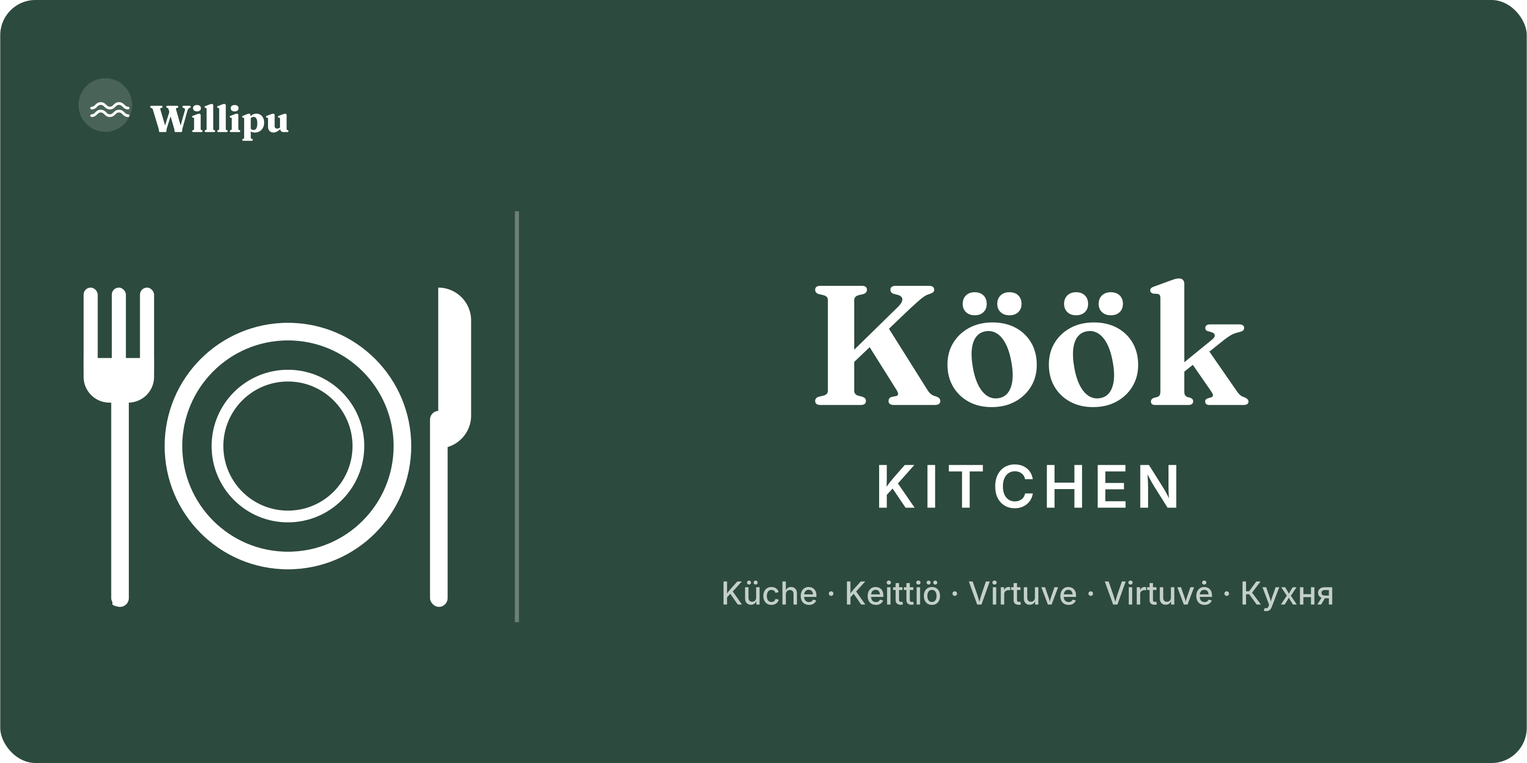
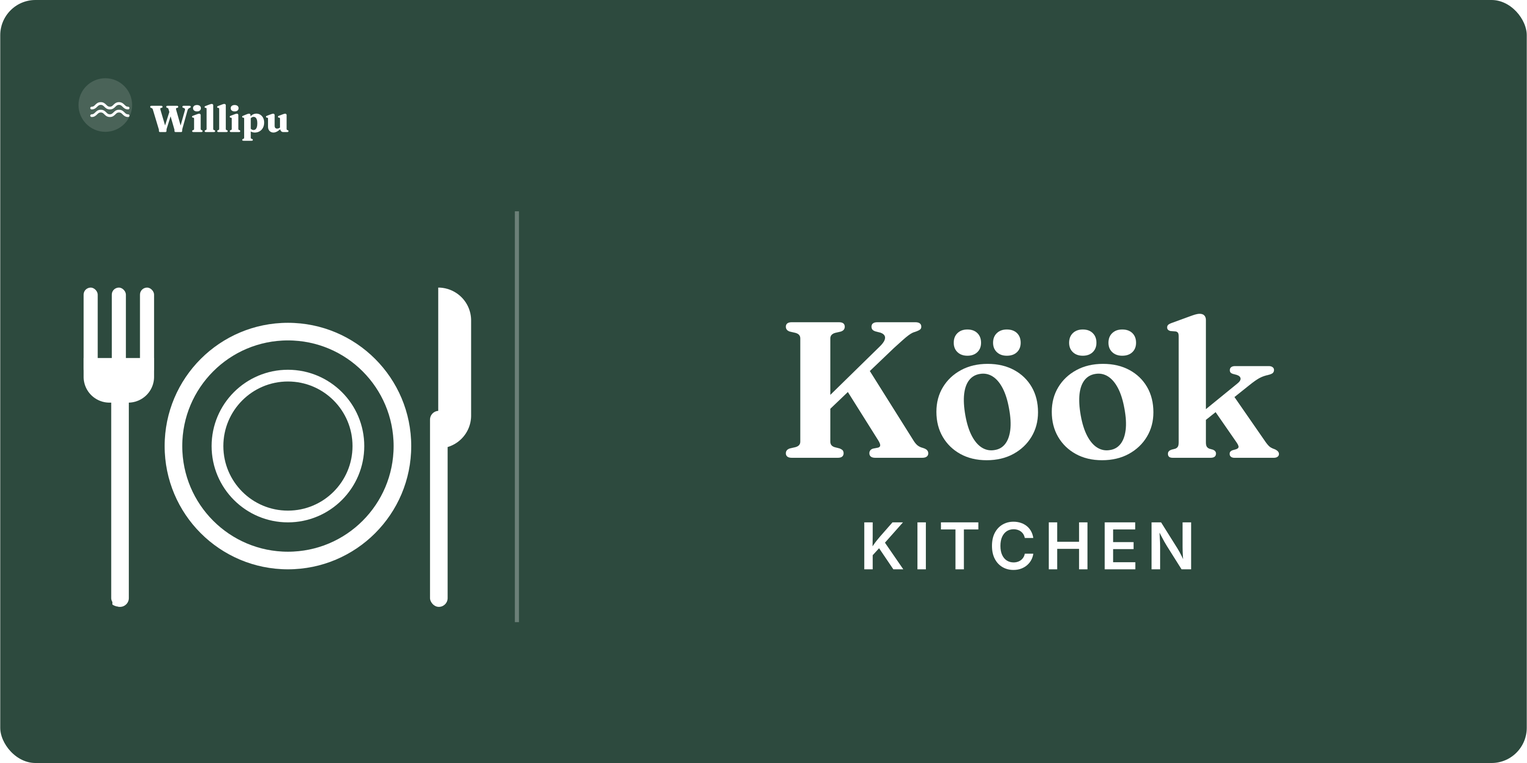
Köögi silt: ainult Köök + KITCHEN, suurem kiri
https://claude.ai/code/session_01DAokWKEoiBPxSJTSGSSjnQ

Changed region(s): [[0.464, 0.3674, 0.8971, 0.7961]]

diff --git a/public/turundus/index.html b/public/turundus/index.html
@@ -70,7 +70,7 @@
   <main>
     <h1>Turundusmaterjalid</h1>
     <p class="intro">Logod, bännerid, reklaamid ja QR-kleebised allalaadimiseks. Leht pole avalikult lingitud ega otsingumootoritele nähtav — jaga ainult otselinki.</p>
-    <section><h2>Logod <small>Logo files</small></h2><a class="file" href="willipu_logo.svg" download="willipu_logo.svg"><span class="thumb"><span class="ext">SVG</span></span><span class="meta"><strong>Logo, värviline — vektor (SVG)</strong><small>willipu_logo.svg · 2 KB</small></span><span class="dl">⬇</span></a><a class="file" href="willipu_logo_white.svg" download="willipu_logo_white.svg"><span class="thumb"><span class="ext">SVG</span></span><span class="meta"><strong>Logo, valge — vektor (SVG)</strong><small>willipu_logo_white.svg · 2 KB</small></span><span class="dl">⬇</span></a><a class="file" href="willipu_logo.pdf" download="willipu_logo.pdf"><span class="thumb"><span class="ext">PDF</span></span><span class="meta"><strong>Logo — vektor (PDF)</strong><small>willipu_logo.pdf · 2 KB</small></span><span class="dl">⬇</span></a><a class="file" href="willipu_logo.png" download="willipu_logo.png"><span class="thumb"><img src="willipu_logo.png" loading="lazy" alt=""></span><span class="meta"><strong>Logo, värviline — läbipaistev PNG</strong><small>willipu_logo.png · 28 KB</small></span><span class="dl">⬇</span></a><a class="file" href="willipu_logo_white.png" download="willipu_logo_white.png"><span class="thumb"><img src="willipu_logo_white.png" loading="lazy" alt=""></span><span class="meta"><strong>Logo, valge — läbipaistev PNG</strong><small>willipu_logo_white.png · 24 KB</small></span><span class="dl">⬇</span></a></section><section><h2>Bännerid <small>Print banners · 2200×1000 mm</small></h2><a class="file" href="willipu_banner_2200x1000.pdf" download="willipu_banner_2200x1000.pdf"><span class="thumb"><span class="ext">PDF</span></span><span class="meta"><strong>Suur bänner 1 — trükifail (PDF)</strong><small>willipu_banner_2200x1000.pdf · 391 KB</small></span><span class="dl">⬇</span></a><a class="file" href="willipu_banner_2.pdf" download="willipu_banner_2.pdf"><span class="thumb"><span class="ext">PDF</span></span><span class="meta"><strong>Suur bänner 2 — trükifail (PDF)</strong><small>willipu_banner_2.pdf · 412 KB</small></span><span class="dl">⬇</span></a></section><section><h2>Facebook <small>Social media images</small></h2><a class="file" href="willipu_facebook_cover.jpg" download="willipu_facebook_cover.jpg"><span class="thumb"><img src="willipu_facebook_cover.jpg" loading="lazy" alt=""></span><span class="meta"><strong>Kaanefoto · 1640×624</strong><small>willipu_facebook_cover.jpg · 277 KB</small></span><span class="dl">⬇</span></a><a class="file" href="willipu_facebook_profile.jpg" download="willipu_facebook_profile.jpg"><span class="thumb"><img src="willipu_facebook_profile.jpg" loading="lazy" alt=""></span><span class="meta"><strong>Profiilipilt · 800×800</strong><small>willipu_facebook_profile.jpg · 63 KB</small></span><span class="dl">⬇</span></a><a class="file" href="willipu_fb_ad_1080.jpg" download="willipu_fb_ad_1080.jpg"><span class="thumb"><img src="willipu_fb_ad_1080.jpg" loading="lazy" alt=""></span><span class="meta"><strong>Reklaam · 1080×1080</strong><small>willipu_fb_ad_1080.jpg · 299 KB</small></span><span class="dl">⬇</span></a><a class="file" href="willipu_fb_ad_karavan.jpg" download="willipu_fb_ad_karavan.jpg"><span class="thumb"><img src="willipu_fb_ad_karavan.jpg" loading="lazy" alt=""></span><span class="meta"><strong>Karavani reklaam · 1080×1350</strong><small>willipu_fb_ad_karavan.jpg · 300 KB</small></span><span class="dl">⬇</span></a><a class="file" href="willipu_fb_ad_kar1.jpg" download="willipu_fb_ad_kar1.jpg"><span class="thumb"><img src="willipu_fb_ad_kar1.jpg" loading="lazy" alt=""></span><span class="meta"><strong>Karavani reklaam, taust 1 · 1080×1350</strong><small>willipu_fb_ad_kar1.jpg · 301 KB</small></span><span class="dl">⬇</span></a><a class="file" href="willipu_fb_ad_kar2.jpg" download="willipu_fb_ad_kar2.jpg"><span class="thumb"><img src="willipu_fb_ad_kar2.jpg" loading="lazy" alt=""></span><span class="meta"><strong>Karavani reklaam, taust 2 · 1080×1350</strong><small>willipu_fb_ad_kar2.jpg · 282 KB</small></span><span class="dl">⬇</span></a><a class="file" href="willipu_fb_ad_kar3.jpg" download="willipu_fb_ad_kar3.jpg"><span class="thumb"><img src="willipu_fb_ad_kar3.jpg" loading="lazy" alt=""></span><span class="meta"><strong>Karavani reklaam, taust 3 · 1080×1350</strong><small>willipu_fb_ad_kar3.jpg · 442 KB</small></span><span class="dl">⬇</span></a></section><section><h2>QR-kleebised · Pesumasin <small>willipu.ee/wash → juhend/pesumasin/</small></h2><a class="file" href="willipu_kleebis_pesumasin.pdf" download="willipu_kleebis_pesumasin.pdf"><span class="thumb"><span class="ext">PDF</span></span><span class="meta"><strong>Kleebis 120×120 mm — trükifail (vektor-PDF)</strong><small>willipu_kleebis_pesumasin.pdf · 60 KB</small></span><span class="dl">⬇</span></a><a class="file" href="willipu_kleebis_pesumasin.svg" download="willipu_kleebis_pesumasin.svg"><span class="thumb"><span class="ext">SVG</span></span><span class="meta"><strong>Kleebis — vektor (SVG)</strong><small>willipu_kleebis_pesumasin.svg · 79 KB</small></span><span class="dl">⬇</span></a><a class="file" href="willipu_kleebis_pesumasin.png" download="willipu_kleebis_pesumasin.png"><span class="thumb"><img src="willipu_kleebis_pesumasin.png" loading="lazy" alt=""></span><span class="meta"><strong>Kleebis — eelvaade (PNG, 300 dpi)</strong><small>willipu_kleebis_pesumasin.png · 68 KB</small></span><span class="dl">⬇</span></a><a class="file" href="willipu_qr_pesumasin.svg" download="willipu_qr_pesumasin.svg"><span class="thumb"><span class="ext">SVG</span></span><span class="meta"><strong>Ainult QR-kood — vektor (SVG)</strong><small>willipu_qr_pesumasin.svg · 14 KB</small></span><span class="dl">⬇</span></a><a class="file" href="willipu_qr_pesumasin.png" download="willipu_qr_pesumasin.png"><span class="thumb"><img src="willipu_qr_pesumasin.png" loading="lazy" alt=""></span><span class="meta"><strong>Ainult QR-kood (PNG)</strong><small>willipu_qr_pesumasin.png · 4 KB</small></span><span class="dl">⬇</span></a></section><section><h2>QR-kleebised · Pesukuivati <small>willipu.ee/dry → juhend/pesukuivati/</small></h2><a class="file" href="willipu_kleebis_pesukuivati.pdf" download="willipu_kleebis_pesukuivati.pdf"><span class="thumb"><span class="ext">PDF</span></span><span class="meta"><strong>Kleebis 120×120 mm — trükifail (vektor-PDF)</strong><small>willipu_kleebis_pesukuivati.pdf · 57 KB</small></span><span class="dl">⬇</span></a><a class="file" href="willipu_kleebis_pesukuivati.svg" download="willipu_kleebis_pesukuivati.svg"><span class="thumb"><span class="ext">SVG</span></span><span class="meta"><strong>Kleebis — vektor (SVG)</strong><small>willipu_kleebis_pesukuivati.svg · 76 KB</small></span><span class="dl">⬇</span></a><a class="file" href="willipu_kleebis_pesukuivati.png" download="willipu_kleebis_pesukuivati.png"><span class="thumb"><img src="willipu_kleebis_pesukuivati.png" loading="lazy" alt=""></span><span class="meta"><strong>Kleebis — eelvaade (PNG, 300 dpi)</strong><small>willipu_kleebis_pesukuivati.png · 68 KB</small></span><span class="dl">⬇</span></a><a class="file" href="willipu_qr_pesukuivati.svg" download="willipu_qr_pesukuivati.svg"><span class="thumb"><span class="ext">SVG</span></span><span class="meta"><strong>Ainult QR-kood — vektor (SVG)</strong><small>willipu_qr_pesukuivati.svg · 14 KB</small></span><span class="dl">⬇</span></a><a class="file" href="willipu_qr_pesukuivati.png" download="willipu_qr_pesukuivati.png"><span class="thumb"><img src="willipu_qr_pesukuivati.png" loading="lazy" alt=""></span><span class="meta"><strong>Ainult QR-kood (PNG)</strong><small>willipu_qr_pesukuivati.png · 4 KB</small></span><span class="dl">⬇</span></a></section><section><h2>QR-kleebised · Saun <small>willipu.ee/sauna → juhend/saun/</small></h2><a class="file" href="willipu_kleebis_saun.pdf" download="willipu_kleebis_saun.pdf"><span class="thumb"><span class="ext">PDF</span></span><span class="meta"><strong>Kleebis 120×120 mm — trükifail (vektor-PDF)</strong><small>willipu_kleebis_saun.pdf · 55 KB</small></span><span class="dl">⬇</span></a><a class="file" href="willipu_kleebis_saun.svg" download="willipu_kleebis_saun.svg"><span class="thumb"><span class="ext">SVG</span></span><span class="meta"><strong>Kleebis — vektor (SVG)</strong><small>willipu_kleebis_saun.svg · 76 KB</small></span><span class="dl">⬇</span></a><a class="file" href="willipu_kleebis_saun.png" download="willipu_kleebis_saun.png"><span class="thumb"><img src="willipu_kleebis_saun.png" loading="lazy" alt=""></span><span class="meta"><strong>Kleebis — eelvaade (PNG, 300 dpi)</strong><small>willipu_kleebis_saun.png · 64 KB</small></span><span class="dl">⬇</span></a><a class="file" href="willipu_qr_saun.svg" download="willipu_qr_saun.svg"><span class="thumb"><span class="ext">SVG</span></span><span class="meta"><strong>Ainult QR-kood — vektor (SVG)</strong><small>willipu_qr_saun.svg · 18 KB</small></span><span class="dl">⬇</span></a><a class="file" href="willipu_qr_saun.png" download="willipu_qr_saun.png"><span class="thumb"><img src="willipu_qr_saun.png" loading="lazy" alt=""></span><span class="meta"><strong>Ainult QR-kood (PNG)</strong><small>willipu_qr_saun.png · 4 KB</small></span><span class="dl">⬇</span></a></section><section><h2>Uksesildid · Läbipääs keelatud <small>Door signs · 120×70 mm</small></h2><a class="file" href="willipu_kleebis_privaatruum.pdf" download="willipu_kleebis_privaatruum.pdf"><span class="thumb"><span class="ext">PDF</span></span><span class="meta"><strong>Uksesilt „Läbipääs keelatud” 120×70 mm — trükifail (vektor-PDF)</strong><small>willipu_kleebis_privaatruum.pdf · 22 KB</small></span><span class="dl">⬇</span></a><a class="file" href="willipu_kleebis_privaatruum.svg" download="willipu_kleebis_privaatruum.svg"><span class="thumb"><span class="ext">SVG</span></span><span class="meta"><strong>Uksesilt „Läbipääs keelatud” — vektor (SVG)</strong><small>willipu_kleebis_privaatruum.svg · 26 KB</small></span><span class="dl">⬇</span></a><a class="file" href="willipu_kleebis_privaatruum.png" download="willipu_kleebis_privaatruum.png"><span class="thumb"><img src="willipu_kleebis_privaatruum.png" loading="lazy" alt=""></span><span class="meta"><strong>Uksesilt „Läbipääs keelatud” — eelvaade (PNG, 300 dpi)</strong><small>willipu_kleebis_privaatruum.png · 65 KB</small></span><span class="dl">⬇</span></a></section><section><h2>Uksesildid · Videovalve <small>GDPR notice · 80×120 mm</small></h2><a class="file" href="willipu_kleebis_videovalve.pdf" download="willipu_kleebis_videovalve.pdf"><span class="thumb"><span class="ext">PDF</span></span><span class="meta"><strong>Videovalve teavitus 80×120 mm — trükifail (vektor-PDF)</strong><small>willipu_kleebis_videovalve.pdf · 56 KB</small></span><span class="dl">⬇</span></a><a class="file" href="willipu_kleebis_videovalve.svg" download="willipu_kleebis_videovalve.svg"><span class="thumb"><span class="ext">SVG</span></span><span class="meta"><strong>Videovalve teavitus — vektor (SVG)</strong><small>willipu_kleebis_videovalve.svg · 74 KB</small></span><span class="dl">⬇</span></a><a class="file" href="willipu_kleebis_videovalve.png" download="willipu_kleebis_videovalve.png"><span class="thumb"><img src="willipu_kleebis_videovalve.png" loading="lazy" alt=""></span><span class="meta"><strong>Videovalve teavitus — eelvaade (PNG, 300 dpi)</strong><small>willipu_kleebis_videovalve.png · 104 KB</small></span><span class="dl">⬇</span></a></section><section><h2>Uksesildid · Köök <small>Kitchen door sign · 260×130 mm</small></h2><a class="file" href="willipu_silt_kook.pdf" download="willipu_silt_kook.pdf"><span class="thumb"><span class="ext">PDF</span></span><span class="meta"><strong>Köögi uksesilt 260×130 mm — trükifail (vektor-PDF)</strong><small>willipu_silt_kook.pdf · 19 KB</small></span><span class="dl">⬇</span></a><a class="file" href="willipu_silt_kook.svg" download="willipu_silt_kook.svg"><span class="thumb"><span class="ext">SVG</span></span><span class="meta"><strong>Köögi uksesilt — vektor (SVG)</strong><small>willipu_silt_kook.svg · 23 KB</small></span><span class="dl">⬇</span></a><a class="file" href="willipu_silt_kook.png" download="willipu_silt_kook.png"><span class="thumb"><img src="willipu_silt_kook.png" loading="lazy" alt=""></span><span class="meta"><strong>Köögi uksesilt — eelvaade (PNG, 300 dpi)</strong><small>willipu_silt_kook.png · 149 KB</small></span><span class="dl">⬇</span></a></section><section><h2>Infotahvlid <small>Info boards · A3, 297×420 mm</small></h2><a class="file" href="willipu_tahvel_purgimine.pdf" download="willipu_tahvel_purgimine.pdf"><span class="thumb"><span class="ext">PDF</span></span><span class="meta"><strong>Purgimisplatsi infotahvel A3 — trükifail (vektor-PDF)</strong><small>willipu_tahvel_purgimine.pdf · 99 KB</small></span><span class="dl">⬇</span></a><a class="file" href="willipu_tahvel_purgimine.svg" download="willipu_tahvel_purgimine.svg"><span class="thumb"><span class="ext">SVG</span></span><span class="meta"><strong>Purgimisplatsi infotahvel — vektor (SVG)</strong><small>willipu_tahvel_purgimine.svg · 118 KB</small></span><span class="dl">⬇</span></a><a class="file" href="willipu_tahvel_purgimine.png" download="willipu_tahvel_purgimine.png"><span class="thumb"><img src="willipu_tahvel_purgimine.png" loading="lazy" alt=""></span><span class="meta"><strong>Purgimisplatsi infotahvel — eelvaade (PNG)</strong><small>willipu_tahvel_purgimine.png · 167 KB</small></span><span class="dl">⬇</span></a></section><section><h2>Piktogrammid <small>Site pictograms · 19 tk, SVG + PNG</small></h2>
+    <section><h2>Logod <small>Logo files</small></h2><a class="file" href="willipu_logo.svg" download="willipu_logo.svg"><span class="thumb"><span class="ext">SVG</span></span><span class="meta"><strong>Logo, värviline — vektor (SVG)</strong><small>willipu_logo.svg · 2 KB</small></span><span class="dl">⬇</span></a><a class="file" href="willipu_logo_white.svg" download="willipu_logo_white.svg"><span class="thumb"><span class="ext">SVG</span></span><span class="meta"><strong>Logo, valge — vektor (SVG)</strong><small>willipu_logo_white.svg · 2 KB</small></span><span class="dl">⬇</span></a><a class="file" href="willipu_logo.pdf" download="willipu_logo.pdf"><span class="thumb"><span class="ext">PDF</span></span><span class="meta"><strong>Logo — vektor (PDF)</strong><small>willipu_logo.pdf · 2 KB</small></span><span class="dl">⬇</span></a><a class="file" href="willipu_logo.png" download="willipu_logo.png"><span class="thumb"><img src="willipu_logo.png" loading="lazy" alt=""></span><span class="meta"><strong>Logo, värviline — läbipaistev PNG</strong><small>willipu_logo.png · 28 KB</small></span><span class="dl">⬇</span></a><a class="file" href="willipu_logo_white.png" download="willipu_logo_white.png"><span class="thumb"><img src="willipu_logo_white.png" loading="lazy" alt=""></span><span class="meta"><strong>Logo, valge — läbipaistev PNG</strong><small>willipu_logo_white.png · 24 KB</small></span><span class="dl">⬇</span></a></section><section><h2>Bännerid <small>Print banners · 2200×1000 mm</small></h2><a class="file" href="willipu_banner_2200x1000.pdf" download="willipu_banner_2200x1000.pdf"><span class="thumb"><span class="ext">PDF</span></span><span class="meta"><strong>Suur bänner 1 — trükifail (PDF)</strong><small>willipu_banner_2200x1000.pdf · 391 KB</small></span><span class="dl">⬇</span></a><a class="file" href="willipu_banner_2.pdf" download="willipu_banner_2.pdf"><span class="thumb"><span class="ext">PDF</span></span><span class="meta"><strong>Suur bänner 2 — trükifail (PDF)</strong><small>willipu_banner_2.pdf · 412 KB</small></span><span class="dl">⬇</span></a></section><section><h2>Facebook <small>Social media images</small></h2><a class="file" href="willipu_facebook_cover.jpg" download="willipu_facebook_cover.jpg"><span class="thumb"><img src="willipu_facebook_cover.jpg" loading="lazy" alt=""></span><span class="meta"><strong>Kaanefoto · 1640×624</strong><small>willipu_facebook_cover.jpg · 277 KB</small></span><span class="dl">⬇</span></a><a class="file" href="willipu_facebook_profile.jpg" download="willipu_facebook_profile.jpg"><span class="thumb"><img src="willipu_facebook_profile.jpg" loading="lazy" alt=""></span><span class="meta"><strong>Profiilipilt · 800×800</strong><small>willipu_facebook_profile.jpg · 63 KB</small></span><span class="dl">⬇</span></a><a class="file" href="willipu_fb_ad_1080.jpg" download="willipu_fb_ad_1080.jpg"><span class="thumb"><img src="willipu_fb_ad_1080.jpg" loading="lazy" alt=""></span><span class="meta"><strong>Reklaam · 1080×1080</strong><small>willipu_fb_ad_1080.jpg · 299 KB</small></span><span class="dl">⬇</span></a><a class="file" href="willipu_fb_ad_karavan.jpg" download="willipu_fb_ad_karavan.jpg"><span class="thumb"><img src="willipu_fb_ad_karavan.jpg" loading="lazy" alt=""></span><span class="meta"><strong>Karavani reklaam · 1080×1350</strong><small>willipu_fb_ad_karavan.jpg · 300 KB</small></span><span class="dl">⬇</span></a><a class="file" href="willipu_fb_ad_kar1.jpg" download="willipu_fb_ad_kar1.jpg"><span class="thumb"><img src="willipu_fb_ad_kar1.jpg" loading="lazy" alt=""></span><span class="meta"><strong>Karavani reklaam, taust 1 · 1080×1350</strong><small>willipu_fb_ad_kar1.jpg · 301 KB</small></span><span class="dl">⬇</span></a><a class="file" href="willipu_fb_ad_kar2.jpg" download="willipu_fb_ad_kar2.jpg"><span class="thumb"><img src="willipu_fb_ad_kar2.jpg" loading="lazy" alt=""></span><span class="meta"><strong>Karavani reklaam, taust 2 · 1080×1350</strong><small>willipu_fb_ad_kar2.jpg · 282 KB</small></span><span class="dl">⬇</span></a><a class="file" href="willipu_fb_ad_kar3.jpg" download="willipu_fb_ad_kar3.jpg"><span class="thumb"><img src="willipu_fb_ad_kar3.jpg" loading="lazy" alt=""></span><span class="meta"><strong>Karavani reklaam, taust 3 · 1080×1350</strong><small>willipu_fb_ad_kar3.jpg · 442 KB</small></span><span class="dl">⬇</span></a></section><section><h2>QR-kleebised · Pesumasin <small>willipu.ee/wash → juhend/pesumasin/</small></h2><a class="file" href="willipu_kleebis_pesumasin.pdf" download="willipu_kleebis_pesumasin.pdf"><span class="thumb"><span class="ext">PDF</span></span><span class="meta"><strong>Kleebis 120×120 mm — trükifail (vektor-PDF)</strong><small>willipu_kleebis_pesumasin.pdf · 60 KB</small></span><span class="dl">⬇</span></a><a class="file" href="willipu_kleebis_pesumasin.svg" download="willipu_kleebis_pesumasin.svg"><span class="thumb"><span class="ext">SVG</span></span><span class="meta"><strong>Kleebis — vektor (SVG)</strong><small>willipu_kleebis_pesumasin.svg · 79 KB</small></span><span class="dl">⬇</span></a><a class="file" href="willipu_kleebis_pesumasin.png" download="willipu_kleebis_pesumasin.png"><span class="thumb"><img src="willipu_kleebis_pesumasin.png" loading="lazy" alt=""></span><span class="meta"><strong>Kleebis — eelvaade (PNG, 300 dpi)</strong><small>willipu_kleebis_pesumasin.png · 68 KB</small></span><span class="dl">⬇</span></a><a class="file" href="willipu_qr_pesumasin.svg" download="willipu_qr_pesumasin.svg"><span class="thumb"><span class="ext">SVG</span></span><span class="meta"><strong>Ainult QR-kood — vektor (SVG)</strong><small>willipu_qr_pesumasin.svg · 14 KB</small></span><span class="dl">⬇</span></a><a class="file" href="willipu_qr_pesumasin.png" download="willipu_qr_pesumasin.png"><span class="thumb"><img src="willipu_qr_pesumasin.png" loading="lazy" alt=""></span><span class="meta"><strong>Ainult QR-kood (PNG)</strong><small>willipu_qr_pesumasin.png · 4 KB</small></span><span class="dl">⬇</span></a></section><section><h2>QR-kleebised · Pesukuivati <small>willipu.ee/dry → juhend/pesukuivati/</small></h2><a class="file" href="willipu_kleebis_pesukuivati.pdf" download="willipu_kleebis_pesukuivati.pdf"><span class="thumb"><span class="ext">PDF</span></span><span class="meta"><strong>Kleebis 120×120 mm — trükifail (vektor-PDF)</strong><small>willipu_kleebis_pesukuivati.pdf · 57 KB</small></span><span class="dl">⬇</span></a><a class="file" href="willipu_kleebis_pesukuivati.svg" download="willipu_kleebis_pesukuivati.svg"><span class="thumb"><span class="ext">SVG</span></span><span class="meta"><strong>Kleebis — vektor (SVG)</strong><small>willipu_kleebis_pesukuivati.svg · 76 KB</small></span><span class="dl">⬇</span></a><a class="file" href="willipu_kleebis_pesukuivati.png" download="willipu_kleebis_pesukuivati.png"><span class="thumb"><img src="willipu_kleebis_pesukuivati.png" loading="lazy" alt=""></span><span class="meta"><strong>Kleebis — eelvaade (PNG, 300 dpi)</strong><small>willipu_kleebis_pesukuivati.png · 68 KB</small></span><span class="dl">⬇</span></a><a class="file" href="willipu_qr_pesukuivati.svg" download="willipu_qr_pesukuivati.svg"><span class="thumb"><span class="ext">SVG</span></span><span class="meta"><strong>Ainult QR-kood — vektor (SVG)</strong><small>willipu_qr_pesukuivati.svg · 14 KB</small></span><span class="dl">⬇</span></a><a class="file" href="willipu_qr_pesukuivati.png" download="willipu_qr_pesukuivati.png"><span class="thumb"><img src="willipu_qr_pesukuivati.png" loading="lazy" alt=""></span><span class="meta"><strong>Ainult QR-kood (PNG)</strong><small>willipu_qr_pesukuivati.png · 4 KB</small></span><span class="dl">⬇</span></a></section><section><h2>QR-kleebised · Saun <small>willipu.ee/sauna → juhend/saun/</small></h2><a class="file" href="willipu_kleebis_saun.pdf" download="willipu_kleebis_saun.pdf"><span class="thumb"><span class="ext">PDF</span></span><span class="meta"><strong>Kleebis 120×120 mm — trükifail (vektor-PDF)</strong><small>willipu_kleebis_saun.pdf · 55 KB</small></span><span class="dl">⬇</span></a><a class="file" href="willipu_kleebis_saun.svg" download="willipu_kleebis_saun.svg"><span class="thumb"><span class="ext">SVG</span></span><span class="meta"><strong>Kleebis — vektor (SVG)</strong><small>willipu_kleebis_saun.svg · 76 KB</small></span><span class="dl">⬇</span></a><a class="file" href="willipu_kleebis_saun.png" download="willipu_kleebis_saun.png"><span class="thumb"><img src="willipu_kleebis_saun.png" loading="lazy" alt=""></span><span class="meta"><strong>Kleebis — eelvaade (PNG, 300 dpi)</strong><small>willipu_kleebis_saun.png · 64 KB</small></span><span class="dl">⬇</span></a><a class="file" href="willipu_qr_saun.svg" download="willipu_qr_saun.svg"><span class="thumb"><span class="ext">SVG</span></span><span class="meta"><strong>Ainult QR-kood — vektor (SVG)</strong><small>willipu_qr_saun.svg · 18 KB</small></span><span class="dl">⬇</span></a><a class="file" href="willipu_qr_saun.png" download="willipu_qr_saun.png"><span class="thumb"><img src="willipu_qr_saun.png" loading="lazy" alt=""></span><span class="meta"><strong>Ainult QR-kood (PNG)</strong><small>willipu_qr_saun.png · 4 KB</small></span><span class="dl">⬇</span></a></section><section><h2>Uksesildid · Läbipääs keelatud <small>Door signs · 120×70 mm</small></h2><a class="file" href="willipu_kleebis_privaatruum.pdf" download="willipu_kleebis_privaatruum.pdf"><span class="thumb"><span class="ext">PDF</span></span><span class="meta"><strong>Uksesilt „Läbipääs keelatud” 120×70 mm — trükifail (vektor-PDF)</strong><small>willipu_kleebis_privaatruum.pdf · 22 KB</small></span><span class="dl">⬇</span></a><a class="file" href="willipu_kleebis_privaatruum.svg" download="willipu_kleebis_privaatruum.svg"><span class="thumb"><span class="ext">SVG</span></span><span class="meta"><strong>Uksesilt „Läbipääs keelatud” — vektor (SVG)</strong><small>willipu_kleebis_privaatruum.svg · 26 KB</small></span><span class="dl">⬇</span></a><a class="file" href="willipu_kleebis_privaatruum.png" download="willipu_kleebis_privaatruum.png"><span class="thumb"><img src="willipu_kleebis_privaatruum.png" loading="lazy" alt=""></span><span class="meta"><strong>Uksesilt „Läbipääs keelatud” — eelvaade (PNG, 300 dpi)</strong><small>willipu_kleebis_privaatruum.png · 65 KB</small></span><span class="dl">⬇</span></a></section><section><h2>Uksesildid · Videovalve <small>GDPR notice · 80×120 mm</small></h2><a class="file" href="willipu_kleebis_videovalve.pdf" download="willipu_kleebis_videovalve.pdf"><span class="thumb"><span class="ext">PDF</span></span><span class="meta"><strong>Videovalve teavitus 80×120 mm — trükifail (vektor-PDF)</strong><small>willipu_kleebis_videovalve.pdf · 56 KB</small></span><span class="dl">⬇</span></a><a class="file" href="willipu_kleebis_videovalve.svg" download="willipu_kleebis_videovalve.svg"><span class="thumb"><span class="ext">SVG</span></span><span class="meta"><strong>Videovalve teavitus — vektor (SVG)</strong><small>willipu_kleebis_videovalve.svg · 74 KB</small></span><span class="dl">⬇</span></a><a class="file" href="willipu_kleebis_videovalve.png" download="willipu_kleebis_videovalve.png"><span class="thumb"><img src="willipu_kleebis_videovalve.png" loading="lazy" alt=""></span><span class="meta"><strong>Videovalve teavitus — eelvaade (PNG, 300 dpi)</strong><small>willipu_kleebis_videovalve.png · 104 KB</small></span><span class="dl">⬇</span></a></section><section><h2>Uksesildid · Köök <small>Kitchen door sign · 260×130 mm</small></h2><a class="file" href="willipu_silt_kook.pdf" download="willipu_silt_kook.pdf"><span class="thumb"><span class="ext">PDF</span></span><span class="meta"><strong>Köögi uksesilt 260×130 mm — trükifail (vektor-PDF)</strong><small>willipu_silt_kook.pdf · 11 KB</small></span><span class="dl">⬇</span></a><a class="file" href="willipu_silt_kook.svg" download="willipu_silt_kook.svg"><span class="thumb"><span class="ext">SVG</span></span><span class="meta"><strong>Köögi uksesilt — vektor (SVG)</strong><small>willipu_silt_kook.svg · 12 KB</small></span><span class="dl">⬇</span></a><a class="file" href="willipu_silt_kook.png" download="willipu_silt_kook.png"><span class="thumb"><img src="willipu_silt_kook.png" loading="lazy" alt=""></span><span class="meta"><strong>Köögi uksesilt — eelvaade (PNG, 300 dpi)</strong><small>willipu_silt_kook.png · 127 KB</small></span><span class="dl">⬇</span></a></section><section><h2>Infotahvlid <small>Info boards · A3, 297×420 mm</small></h2><a class="file" href="willipu_tahvel_purgimine.pdf" download="willipu_tahvel_purgimine.pdf"><span class="thumb"><span class="ext">PDF</span></span><span class="meta"><strong>Purgimisplatsi infotahvel A3 — trükifail (vektor-PDF)</strong><small>willipu_tahvel_purgimine.pdf · 99 KB</small></span><span class="dl">⬇</span></a><a class="file" href="willipu_tahvel_purgimine.svg" download="willipu_tahvel_purgimine.svg"><span class="thumb"><span class="ext">SVG</span></span><span class="meta"><strong>Purgimisplatsi infotahvel — vektor (SVG)</strong><small>willipu_tahvel_purgimine.svg · 118 KB</small></span><span class="dl">⬇</span></a><a class="file" href="willipu_tahvel_purgimine.png" download="willipu_tahvel_purgimine.png"><span class="thumb"><img src="willipu_tahvel_purgimine.png" loading="lazy" alt=""></span><span class="meta"><strong>Purgimisplatsi infotahvel — eelvaade (PNG)</strong><small>willipu_tahvel_purgimine.png · 167 KB</small></span><span class="dl">⬇</span></a></section><section><h2>Piktogrammid <small>Site pictograms · 19 tk, SVG + PNG</small></h2>
 <a class="file" href="piktogrammid/willipu_piktogrammid.zip" download="willipu_piktogrammid.zip">
 <span class="thumb"><span class="ext">ZIP</span></span>
 <span class="meta"><strong>Kõik piktogrammid ühe failina</strong><small>willipu_piktogrammid.zip · 126 KB</small></span>

diff --git a/make_kook_silt.py b/make_kook_silt.py
@@ -81,10 +81,8 @@ def centred(fn, text, em, y, fill, tracking=None):
     w, _ = tracked(fn, text, em, y, fill, tracking, 0)
     return tracked(fn, text, em, y, fill, tracking, TEXT_CX - w / 2)[1]
 
-et_frag = centred("fraunces-600.ttf", "Köök", 29.0, 69.0, "#ffffff")
-en_frag = centred("inter-600.ttf", "KITCHEN", 10.0, 86.5, "#ffffff", tracking=0.12)
-other_frag = centred("inter-500.ttf", "Küche · Keittiö · Virtuve · Virtuvė · Кухня",
-                     5.4, 103.0, MUTED)
+et_frag = centred("fraunces-600.ttf", "Köök", 33.0, 78.0, "#ffffff")
+en_frag = centred("inter-600.ttf", "KITCHEN", 11.0, 97.0, "#ffffff", tracking=0.12)
 
 brand_w, brand_frag = at("fraunces-700.ttf", "Willipu", 6.4, 22.5, "#ffffff", 25.5)
 
@@ -124,7 +122,6 @@ svg = f'''<svg xmlns="http://www.w3.org/2000/svg" width="260mm" height="130mm" v
 
   {et_frag}
   {en_frag}
-  {other_frag}
 </svg>'''
 
 svg_path = f"{REPO}/willipu_silt_kook.svg"
